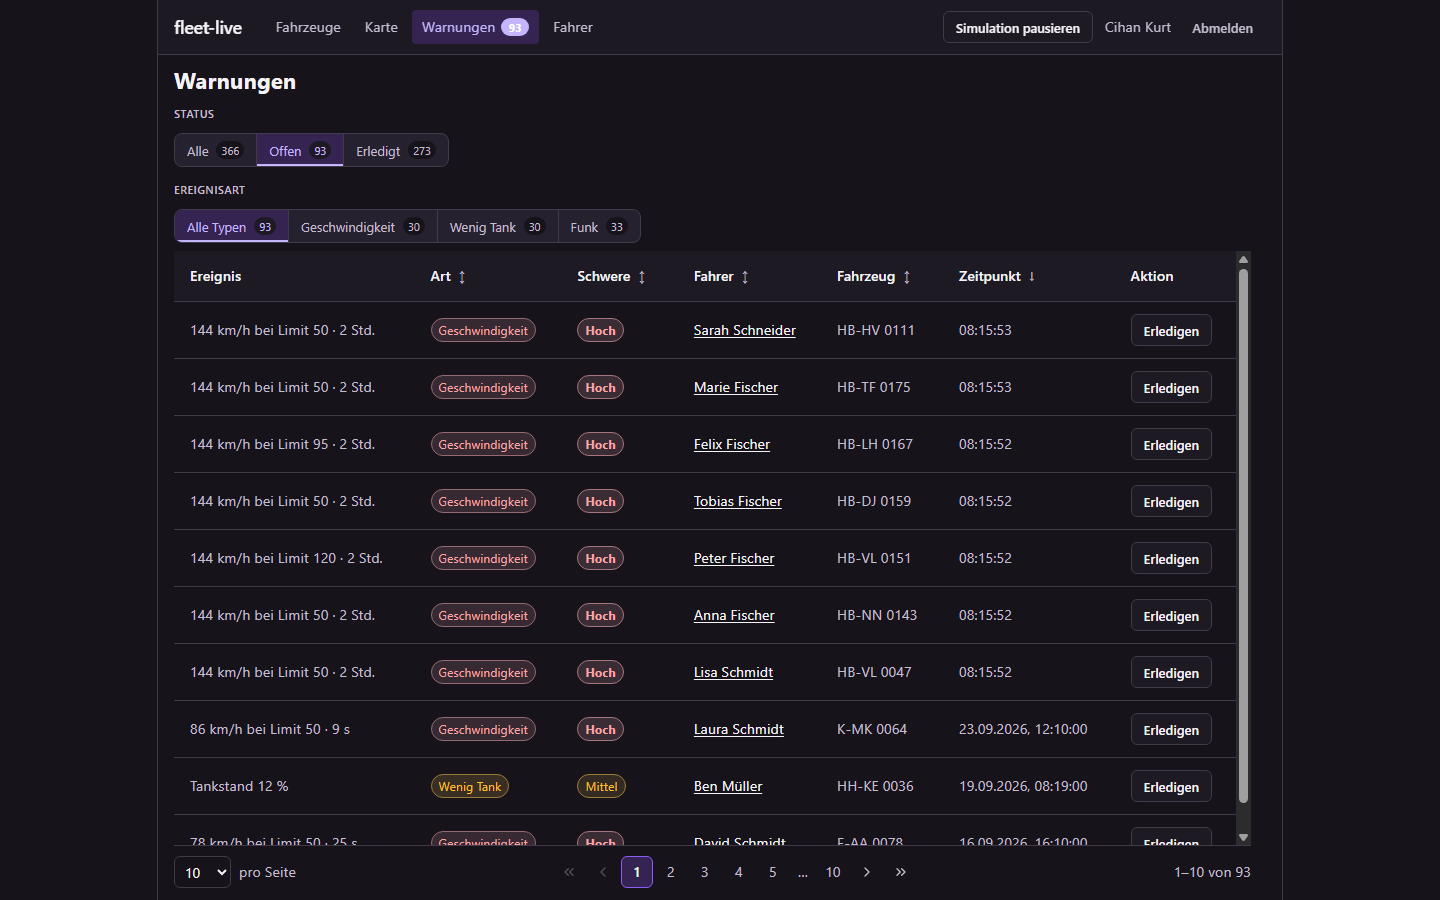
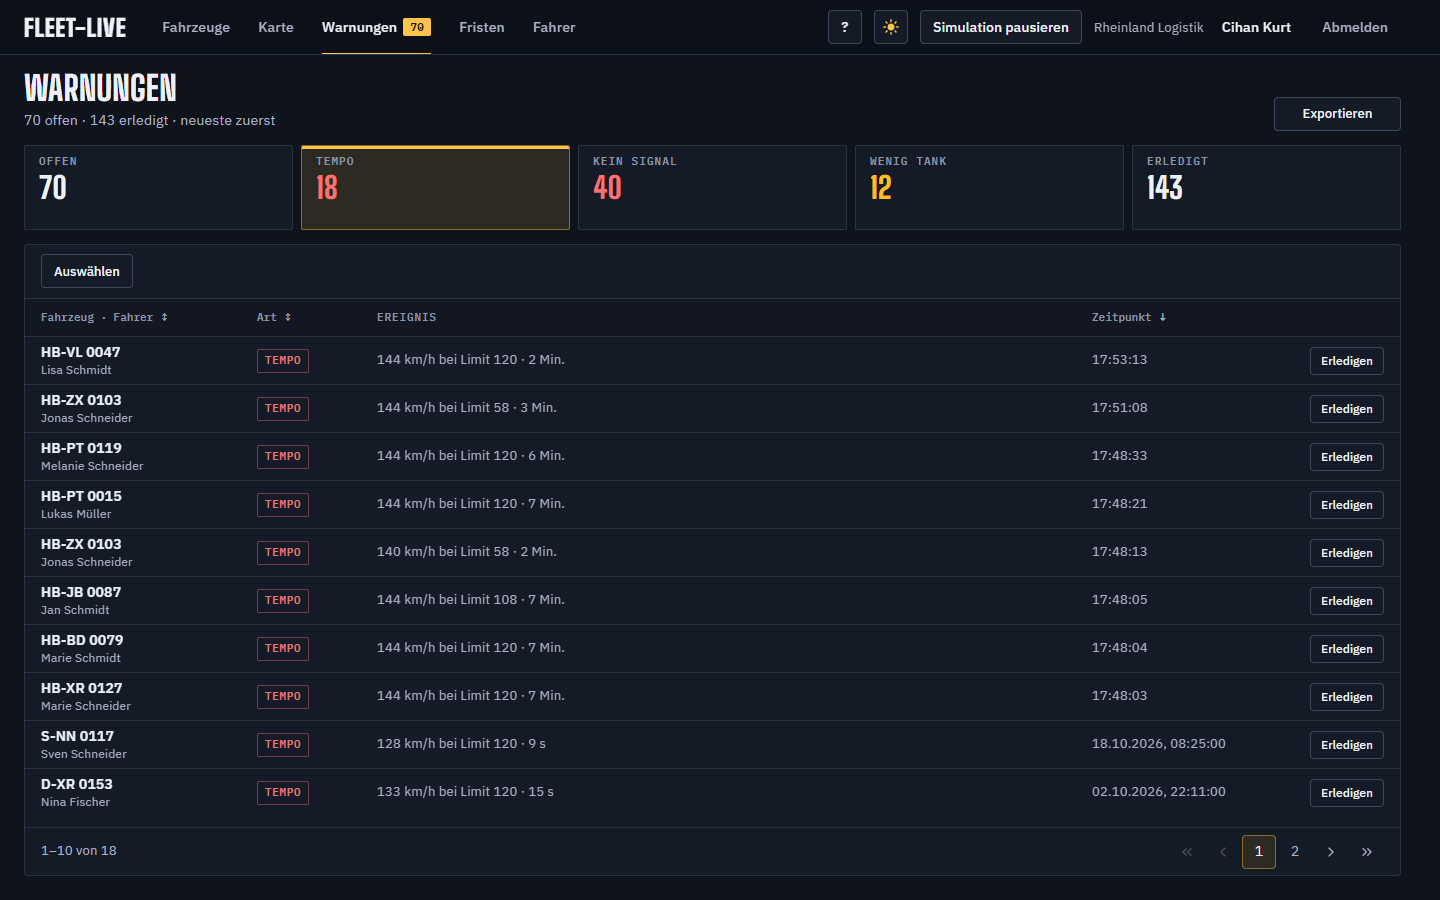
docs: new screenshots and corrected README facts
Fresh screenshots (briefing, alerts, fleet map, vehicle detail, new vehicle
list and Fristen). Fixes the telemetry defaults, the ping model, the focus
limit, one Tempo warning per trip, self-closing and retention wording, and the
outdated 401 item in the roadmap.

diff --git a/README.md b/README.md
@@ -22,6 +22,14 @@ Flottenleitstelle für Dispatcher. Schichtüberblick, Live-Karte, Fahrten, Fahre
 
 ![Fahrzeugdetail mit Live-Fahrt](docs/screenshots/vehicle-detail.png)
 
+### Fahrzeugliste
+
+![Fahrzeugliste mit Kacheln als Filter, Status, Tank und Hinweisen](docs/screenshots/vehicles.png)
+
+### Fristen
+
+![Fristen nach Art gruppiert, mit Regel und Einstellungen der Firma](docs/screenshots/fristen.png)
+
 ### Stammdatenimport
 
 ![Importvorschau mit Prüfung, Blättern und Zeilenaktionen](docs/screenshots/import-preview.png)
@@ -78,10 +86,12 @@ Was die App heute kann, und was als Nächstes kommt.
 
 ## Jetzt
 
-* Geschwindigkeitswarnung, solange ein Fahrzeug über dem Streckenlimit liegt
+* Geschwindigkeitswarnung, solange ein Fahrzeug über dem Streckenlimit liegt. Eine Warnung je Fahrt: weitere Überschreitungen derselben Fahrt zählen dazu (Anzahl, Höchsttempo, Summe der Dauer). Beendete, nicht erledigte Tempo-Warnungen werden nach 7 Tagen Verlauf
 * Niedriger Tankstand (unter 15 %) ist eine Warnung, die von selbst verschwindet, sobald getankt ist
-* Kein Signal, wenn ein Fahrzeug verstummt oder offline gemeldet ist
-* Warnungen offen oder erledigt, Filter nach Geschwindigkeit, Tank, Kein Signal
+* Kein Signal, wenn ein Fahrzeug verstummt oder offline gemeldet ist. Die Warnung schließt sich selbst, sobald es wieder meldet
+* Warnungen offen oder erledigt, Filter nach Geschwindigkeit, Tank, Kein Signal. Erledigte Warnungen werden nach 90 Tagen gelöscht, die Monatssummen der Schicht-Diagramme bleiben
+* Kurze Tipps auf Schicht, Fristen, Fahrzeuge, Warnungen, Fahrer und Karte (einmal je Person, über „?“ wieder abrufbar)
+* Fahrer-Filter auf der Karte: einzelne Fahrer wählen oder alle Treffer einer Suche filtern
 * Schichtüberblick auf der Startseite, offene Warnungen in der Navigation
 * Flottenkarte mit Dichtezellen und Kennzeichen-Sprung, Fahrspur am Fahrzeug, Fahrer, Firmen-Login
 * Fahrtarchiv am Fahrzeug: alte Fahrten durchblättern, abgeschlossene Strecke auf der Karte
@@ -101,7 +111,9 @@ Was die App heute kann, und was als Nächstes kommt.
 
 ## Als Nächstes
 
-* Läuft die Anmeldung mitten in der Sitzung ab, geht es zurück zur Anmeldung
+* Tempo-Warnungen älterer Fahrten, die noch einzeln in der Datenbank stehen, je Fahrt zusammenführen
+* Prüfung von Firmen-SSO und Einladungen durch eine zweite Stelle
+* Feierabend als Kachel auf der Schicht
 
 ---
 
@@ -252,7 +264,7 @@ Anlegen, bearbeiten, löschen. Status als Badge. Tank während der Fahrt nur les
 
 ## Flottenkarte
 
-`/fleet` lädt die Positionen der eigenen Firma einmal (bis 5000 Einzelpunkte) und clustert sie im Ausschnitt. Schwenken lädt nicht neu. Die Leiste zeigt, wie viele Fahrzeuge im Ausschnitt liegen, wie viele der Filter trifft und wie viele keine Position haben. Der Fahrer-Picker ist ein Filter, kein Muss. Über 5000 Treffer mit Position werden Dichtekreise. Ein Klick auf eine Gruppe zoomt heran; übereinanderliegende Fahrzeuge öffnen eine Liste. Ein eindeutiges Kennzeichen holt das Fahrzeug auch von außerhalb. Fahrende Fahrzeuge im Positionsmodus kriegen SSE (max. 150 im Fokus, bevorzugt im Ausschnitt). Spuren gibt es hier nicht, die liegen auf der Detailseite.
+`/fleet` lädt die Positionen der eigenen Firma einmal (bis 5000 Einzelpunkte) und clustert sie im Ausschnitt. Schwenken lädt nicht neu. Die Leiste zeigt, wie viele Fahrzeuge im Ausschnitt liegen, wie viele der Filter trifft und wie viele keine Position haben. Der Fahrer-Picker ist ein Filter, kein Muss. Über 5000 Treffer mit Position werden Dichtekreise. Ein Klick auf eine Gruppe zoomt heran; übereinanderliegende Fahrzeuge öffnen eine Liste. Ein eindeutiges Kennzeichen holt das Fahrzeug auch von außerhalb. Fahrende Fahrzeuge im Positionsmodus kriegen SSE (bis zu 3000 im Fokus, bevorzugt im Ausschnitt). Spuren gibt es hier nicht, die liegen auf der Detailseite.
 
 Tabellenkomponente: [apps/docs/table.md](apps/docs/table.md).
 
@@ -262,7 +274,7 @@ Tabellenkomponente: [apps/docs/table.md](apps/docs/table.md).
 
 Kurzer Puffer: Fahrzeug, Latitude, Longitude, Geschwindigkeit, `recorded_at`. Der letzte Punkt steckt im Fahrzeug-JSON. `GET /api/vehicles/:id/telemetry` gibt `{ data }` chronologisch. Das ist Marker und letzte Bewegung, nicht die Spur.
 
-Der Ticker schreibt nur für fokussierte `DRIVING`-Fahrzeuge, deren Firma die Sim laufen lässt. `connected` liefert `connection_id`. Die UI schickt `{ connection_id, ids }` (Liste plus Nachbarn, offenes Detail, fahrende auf der Flottenkarte). Jede Verbindung hat eigenen Fokus. Der Ticker nimmt die Vereinigung der laufenden Sims dieser Firma. Ohne Fokus passiert nichts. Patches nur an Verbindungen, die die ID fokussiert haben und zur Firma gehören. `vehicles-changed` nur an diese Firma.
+Der Simulator spielt Geräte: jedes `DRIVING`-Fahrzeug mit Fahrer, dessen Firma die Sim laufen lässt, meldet sich in einem eigenen, leicht schwankenden Takt (`PING_INTERVAL_MS`, Standard 5 s), ob jemand zusieht oder nicht. Der Ticker (`TELEMETRY_TICK_MS`) prüft nur, welche Meldungen fällig sind. `connected` liefert `connection_id`. Die UI schickt `{ connection_id, ids }` (Liste plus Nachbarn, offenes Detail, fahrende auf der Flottenkarte). Jede Verbindung hat eigenen Fokus. Der Fokus bestimmt nur, wer die Patches bekommt, nicht wer fährt. Patches nur an Verbindungen, die die ID fokussiert haben und zur Firma gehören. `vehicles-changed` nur an diese Firma.
 
 Pro Fahrzeug bleiben `TELEMETRY_KEEP_PER_VEHICLE` Rohzeilen (Standard 100). Das ist die Retention. Trip-Ende schreibt Speed 0 an der letzten Position.
 
@@ -302,7 +314,7 @@ Drei Schichten, eine Tabelle `alerts`.
 
 `GET /api/alerts` ist die Inbox. Standard `filter=open`. Optional `type`, `vehicle_id`, `driver_id`. `PATCH` mit `{ resolved: true }` schließt (`dispatcher`). Zweites Schließen ist egal. Viewer lesen. Nach dem Close kommt `vehicles-changed`.
 
-Ticker SPEEDING: 8 s am Stück über dem Sim-Limit (`speedLimitKmh`, Stadt 50 / Autobahn 120). Eine offene Zeile pro Fahrzeug. `details` mit Limit, Max, Dauer. 2 s Hysterese oder raus aus `DRIVING` setzt `ended_at`. Jedes achte simulierte Fahrzeug darf über dem Limit fahren. OFFLINE nach 15 s ohne Ticks bei pausierter Sim, oder Status `OFFLINE`; die Zeile schließt sich selbst (`ended_at` und `resolved_at`), sobald das Fahrzeug wieder meldet, kein Erledigen von Hand. Ein beendetes SPEEDING, das niemand erledigt hat, wird nach 7 Tagen erledigt (`resolved_at` = `ended_at` + 7 Tage) und ist dann Verlauf. Erledigte Warnungen werden 90 Tage nach dem Erledigen gelöscht; die Monatssummen für die Schicht-Diagramme stehen vorher in `alert_month_stats`. Niedriger Tank ist Messung, Filter und Warnung: unter 15 % hat das Fahrzeug eine offene LOW_FUEL-Zeile, über 15 % verschwindet sie von selbst (kein Erledigen von Hand). Sie folgt dem Schreiben von `fuel_level` (Fahrzeug anlegen/ändern, Import) und gleicht beim Start alte Zeilen an. Eine offene Zeile pro Fahrzeug und Typ. Anzeige: `formatAlertEvent`. Fahrernamen gehen nach `/drivers/:id`. Klick auf die Warnung öffnet das Fahrzeug.
+Ticker SPEEDING: 8 s am Stück über dem Sim-Limit (`speedLimitKmh`, Stadt 50 / Autobahn 120). Eine offene Zeile pro Fahrzeug, und eine Zeile je Fahrt: eine spätere Überschreitung derselben Fahrt öffnet die vorhandene, nicht erledigte Zeile wieder (`event_count`, höchstes Tempo, Summe der Dauer). `details` mit Limit, Max, Dauer. 2 s Hysterese oder raus aus `DRIVING` setzt `ended_at`. Jedes achte simulierte Fahrzeug darf über dem Limit fahren. OFFLINE nach 15 s ohne Ticks bei pausierter Sim, oder Status `OFFLINE`; die Zeile schließt sich selbst (`ended_at` und `resolved_at`), sobald das Fahrzeug wieder meldet, kein Erledigen von Hand. Ein beendetes SPEEDING, das niemand erledigt hat, wird nach 7 Tagen erledigt (`resolved_at` = `ended_at` + 7 Tage) und ist dann Verlauf. Erledigte Warnungen werden 90 Tage nach dem Erledigen gelöscht; die Monatssummen für die Schicht-Diagramme stehen vorher in `alert_month_stats`. Niedriger Tank ist Messung, Filter und Warnung: unter 15 % hat das Fahrzeug eine offene LOW_FUEL-Zeile, über 15 % verschwindet sie von selbst (kein Erledigen von Hand). Sie folgt dem Schreiben von `fuel_level` (Fahrzeug anlegen/ändern, Import) und gleicht beim Start alte Zeilen an. Eine offene Zeile pro Fahrzeug und Typ. Anzeige: `formatAlertEvent`. Fahrernamen gehen nach `/drivers/:id`. Klick auf die Warnung öffnet das Fahrzeug.
 
 Live-Speed sitzt in der Telemetrie. Die Polyline hat keinen Speed pro Punkt.
 
@@ -392,8 +404,9 @@ Nach `db:seed` kann die Loginseite in der Entwicklung `cihan@example.com` / `dev
 | `PORT` | `3000` | |
 | `DATABASE_PATH` | `apps/api/data/fleetlive.db` | `:memory:` in Tests |
 | `CORS_ORIGIN` | `*` | Same origin über den Vite-Proxy |
-| `TELEMETRY_TICK_MS` | `400` | `0` schaltet den Simulator aus |
-| `TELEMETRY_BATCH_SIZE` | `3000` | Cap pro Tick über die Fokus-IDs |
+| `TELEMETRY_TICK_MS` | `1000` | Wie oft nach fälligen Meldungen gesucht wird. `0` schaltet den Simulator aus |
+| `PING_INTERVAL_MS` | `5000` | Abstand der Meldungen je Fahrzeug (60 bis 160 % davon) |
+| `TELEMETRY_BATCH_SIZE` | `3000` | Höchstens so viele Meldungen pro Tick |
 | `TELEMETRY_KEEP_PER_VEHICLE` | `100` | Nur Live-Puffer |
 | `TRIP_RETENTION_DAYS` | `90` | Abgeschlossene Fahrten älter als das, pro Firma. `0` aus |
 | `LOG_LEVEL` | `info` | |
@@ -462,7 +475,7 @@ Controller validieren und mappen HTTP. Models führen SQL aus. Dünn gehalten.
 * Cookies sind für same origin gebaut. In Produktion braucht es `CORS_ORIGIN`, Origin-Checks bei Schreibzugriffen und ein Login-Limit. Das Login-Limit gilt auch in der Entwicklung, Tests lassen es aus.
 * Abgelaufene Session: `GET /api/auth/me` und spätere `401`. Die UI räumt den Nutzer weg und geht nach `/login`. Falsches Passwort auf `POST /api/auth/login` zählt nicht als Session-Ende.
 * Sim-Pause liegt im Speicher. API-Neustart startet alle Firmen wieder.
-* Frontend-Tests nur für ein paar riskante Abläufe.
+* Frontend-Tests (Vitest) decken Seiten, Bausteine und die Kartenlogik ab; Leaflet selbst läuft nicht in jsdom und wird im Browser geprüft. Es gibt keine CI auf GitHub, `npm run verify` läuft lokal.
 * Logs für Request, SSE, Ticker und Import. Kein Metrik-Stack.
 
 ---
